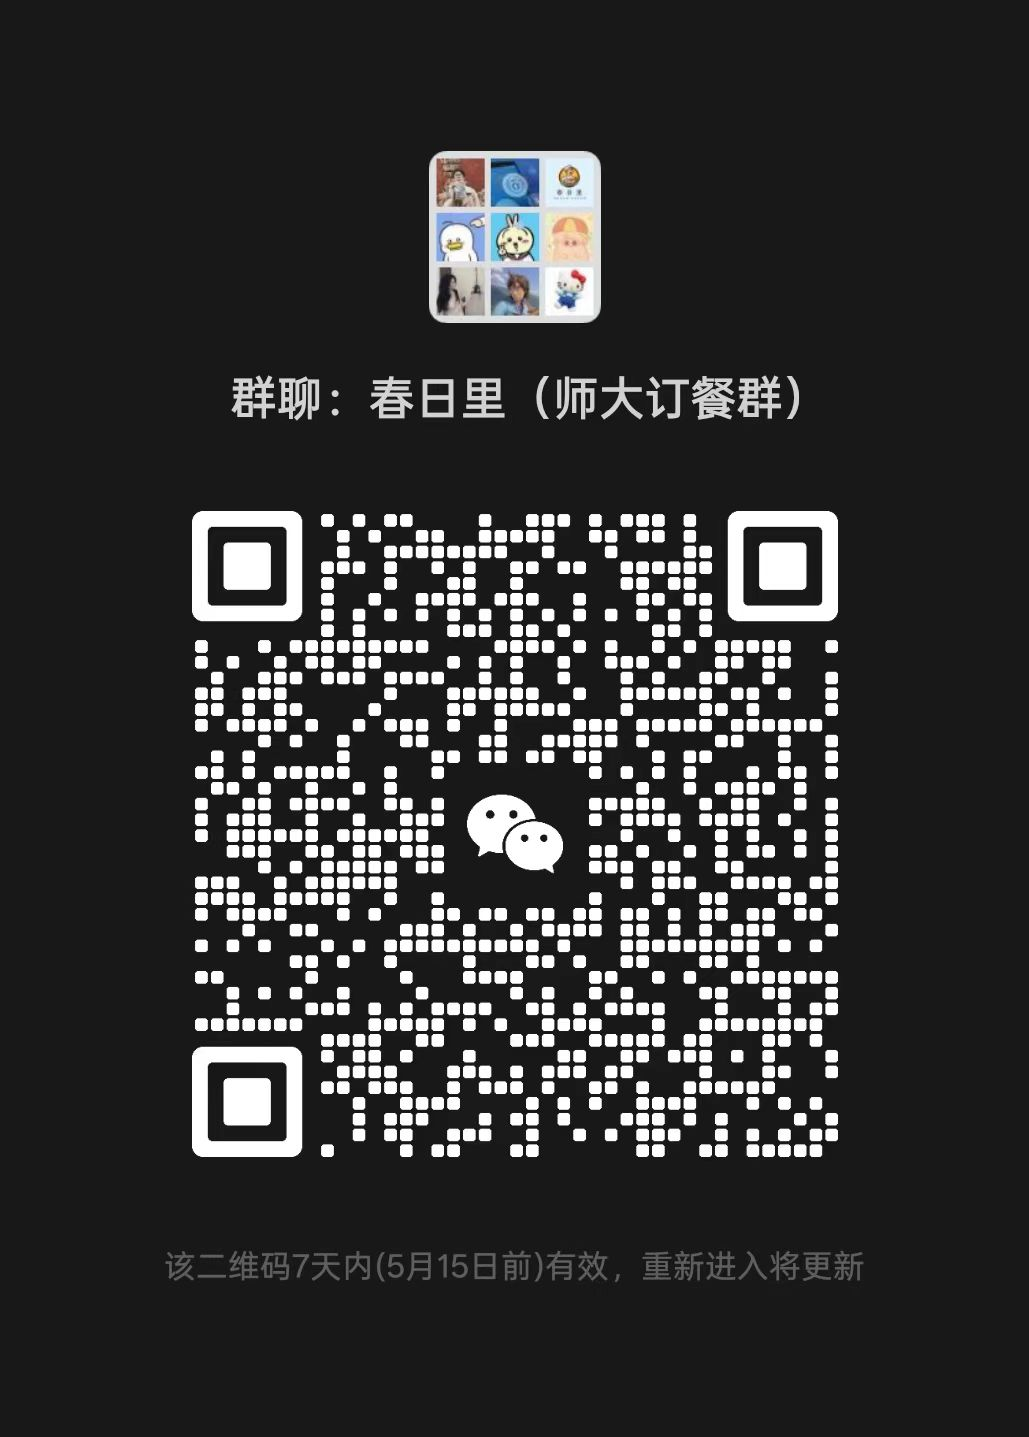
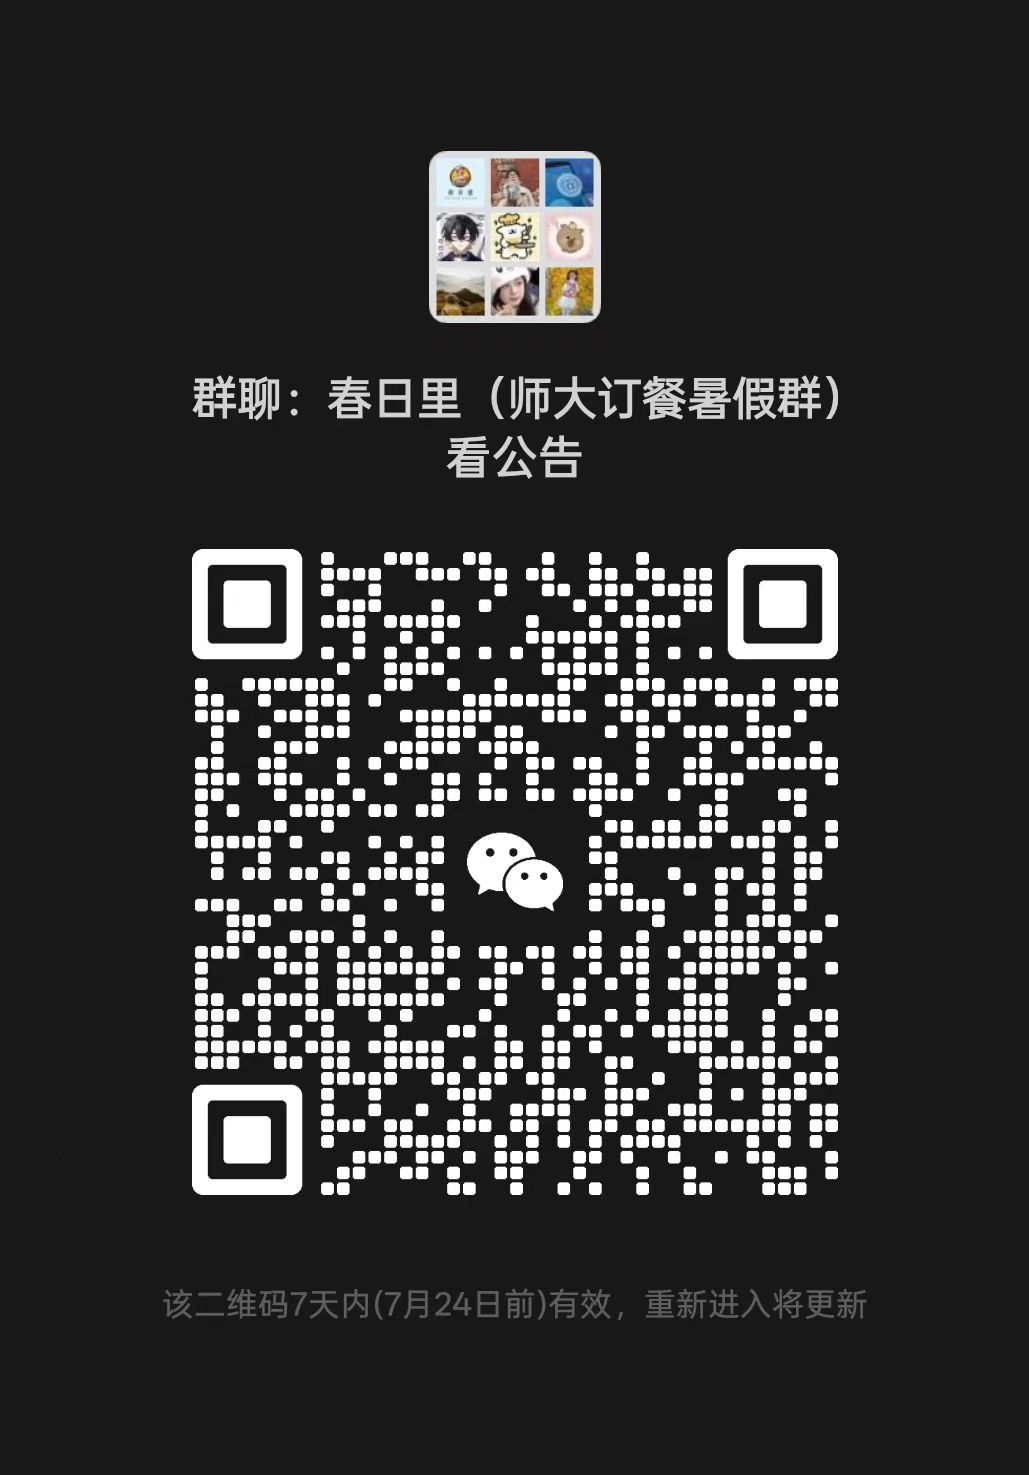
修改

Changed region(s): [[0.1866, 0.0919, 0.8397, 0.8267], [0.1555, 0.8573, 0.5909, 0.9186], [0.622, 0.8573, 0.8397, 0.9186]]

diff --git a/index.html b/index.html
@@ -196,9 +196,9 @@
         </div>
 
         <div class="primary-qrcode">
-            <h2 class="qrcode-label">师大订餐群</h2>
+            <h2 class="qrcode-label">师大暑假订餐群</h2>
             <img src="assets/group-qrcode.jpg" alt="师大订餐群二维码" />
-            <p class="qrcode-tip tip-highlight">超200人加店主微信</p>
+            <p class="qrcode-tip tip-highlight">📱 长按二维码加入订餐群</p>
         </div>
     </div>
 
